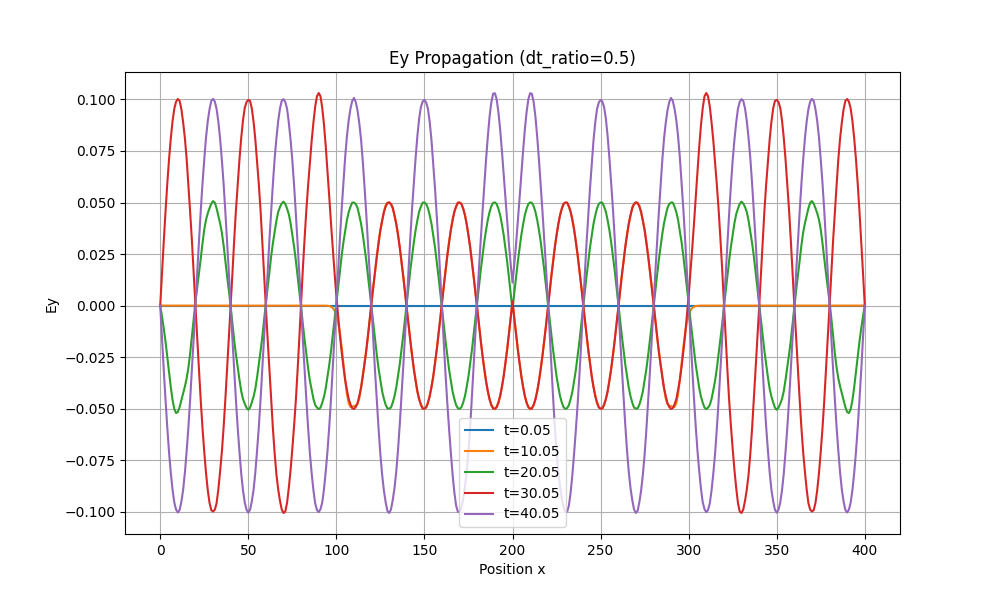
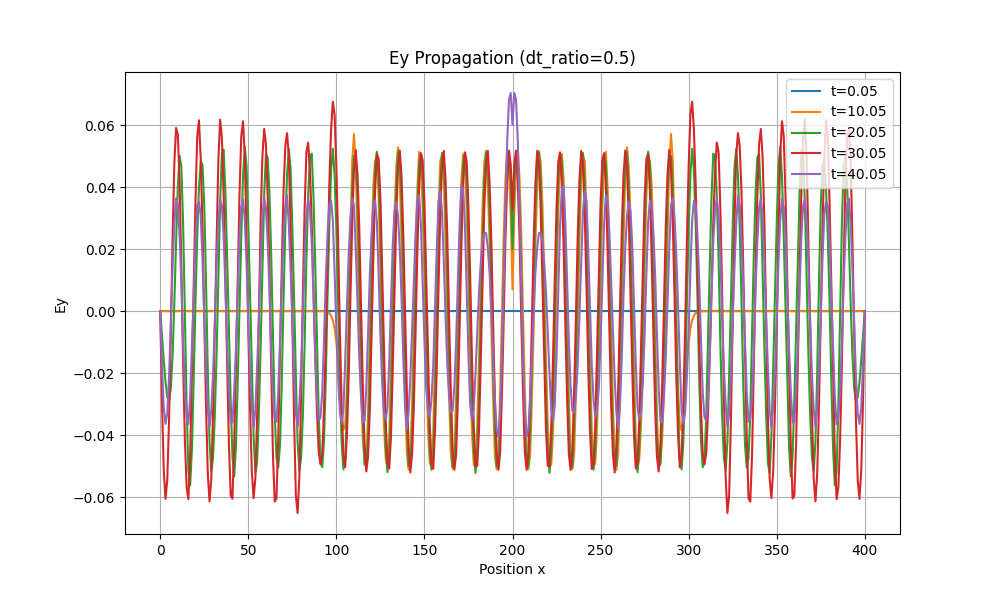
animation, ey, bz,の項目について追加

diff --git a/verify_physics_plot.py b/verify_physics_plot.py
@@ -1,0 +1,135 @@
+import numpy as np
+import matplotlib.pyplot as plt
+from em_1d_sim import EMSimulation1D
+
+def verify_and_plot():
+    # --- Simulation Setup ---
+    nx = 400
+    dx = 1.0
+    c = 10.0
+    eps0 = 1.0
+    dt_ratio = 0.5
+    
+    sim = EMSimulation1D(nx, dx, c, eps0, dt_ratio=dt_ratio)
+    
+    # Target Parameters (From Slide)
+    omega = 5.0
+    freq = omega / (2 * np.pi)
+    target_period = 1.0 / freq
+    target_lambda = c / freq
+    
+    # Run Simulation
+    steps = 600
+    source_pos = nx // 2
+    probe_pos = source_pos + 50 # Measure 50 units away from source
+    
+    probe_signal = []
+    time_history = []
+    
+    print(f"Running simulation for {steps} steps...")
+    
+    for _ in range(steps):
+        # Continuous sinusoidal source J0 * sin(omega * t)
+        current = np.sin(omega * sim.t)
+        sim.update(source_current=current, source_pos_idx=source_pos)
+        
+        probe_signal.append(sim.ey[probe_pos])
+        time_history.append(sim.t)
+
+    # --- Analysis ---
+    
+    # 1. Temporal Analysis (Period)
+    # Use the last 50% of signal to ensure steady state
+    start_idx = int(len(probe_signal) * 0.5)
+    t_data = np.array(time_history)[start_idx:]
+    y_time_data = np.array(probe_signal)[start_idx:]
+    
+    # Find peaks in time
+    peaks_t_idx = []
+    for i in range(1, len(y_time_data)-1):
+        if y_time_data[i-1] < y_time_data[i] and y_time_data[i] > y_time_data[i+1]:
+            peaks_t_idx.append(i)
+            
+    measured_period = 0.0
+    if len(peaks_t_idx) >= 2:
+        diffs = np.diff(t_data[peaks_t_idx])
+        measured_period = np.mean(diffs)
+    
+    # 2. Spatial Analysis (Wavelength)
+    # Snapshot at final step
+    x_data = np.arange(nx+1) * dx
+    y_space_data = sim.ey
+    
+    # Look at the right side of the source to avoid interference with left wave
+    # Source is at 200. Let's look at 220 to 380
+    region_mask = (x_data > (source_pos * dx + 20)) & (x_data < (nx * dx - 20))
+    x_region = x_data[region_mask]
+    y_region = y_space_data[region_mask]
+    
+    peaks_x_idx = []
+    for i in range(1, len(y_region)-1):
+        if y_region[i-1] < y_region[i] and y_region[i] > y_region[i+1]:
+            peaks_x_idx.append(i)
+            
+    measured_lambda = 0.0
+    if len(peaks_x_idx) >= 2:
+        diffs = np.diff(x_region[peaks_x_idx])
+        measured_lambda = np.mean(diffs)
+        
+    measured_velocity = measured_lambda / measured_period if measured_period > 0 else 0
+    
+    # --- Plotting ---
+    fig, (ax1, ax2) = plt.subplots(2, 1, figsize=(10, 10))
+    plt.subplots_adjust(hspace=0.4)
+    
+    # subplot 1: Time Domain
+    ax1.plot(t_data, y_time_data, 'b-', label='Ey at x=250')
+    ax1.set_title(f'Temporal Check (Period)\nTarget T={target_period:.2f}, Measured T={measured_period:.4f}')
+    ax1.set_xlabel('Time (s)')
+    ax1.set_ylabel('Amplitude')
+    ax1.grid(True)
+    
+    # Mark peaks
+    if len(peaks_t_idx) >= 2:
+        p1 = peaks_t_idx[-2]
+        p2 = peaks_t_idx[-1]
+        t1, t2 = t_data[p1], t_data[p2]
+        v1, v2 = y_time_data[p1], y_time_data[p2]
+        
+        ax1.plot([t1, t2], [v1, v2], 'ro')
+        ax1.annotate('', xy=(t1, v1 + 0.1), xytext=(t2, v2 + 0.1),
+                     arrowprops=dict(arrowstyle='<->', color='red'))
+        ax1.text((t1+t2)/2, v1 + 0.2, f'T ~ {t2-t1:.2f}', color='red', ha='center')
+
+    # subplot 2: Spatial Domain
+    ax2.plot(x_data, y_space_data, 'g-', label=f'Ey at t={sim.t:.2f}')
+    ax2.set_xlim(200, 400) # Zoom in on right side
+    ax2.set_title(f'Spatial Check (Wavelength)\nTarget Lambda={target_lambda:.2f}, Measured Lambda={measured_lambda:.4f}')
+    ax2.set_xlabel('Position (x)')
+    ax2.set_ylabel('Amplitude')
+    ax2.grid(True)
+    
+    # Mark peaks
+    if len(peaks_x_idx) >= 2:
+        p1 = peaks_x_idx[-2]
+        p2 = peaks_x_idx[-1]
+        x1, x2 = x_region[p1], x_region[p2]
+        v1, v2 = y_region[p1], y_region[p2]
+        
+        ax2.plot([x1, x2], [v1, v2], 'ro')
+        ax2.annotate('', xy=(x1, v1 + 0.1), xytext=(x2, v2 + 0.1),
+                     arrowprops=dict(arrowstyle='<->', color='red'))
+        ax2.text((x1+x2)/2, v1 + 0.2, f'L ~ {x2-x1:.2f}', color='red', ha='center')
+
+    # Add velocity text
+    plt.figtext(0.5, 0.02, 
+                f"Calculated Velocity = Lambda / Period = {measured_lambda:.4f} / {measured_period:.4f} = {measured_velocity:.4f}\n"
+                f"(Simulation Setting c = {c})", 
+                ha="center", fontsize=12, bbox={"facecolor":"orange", "alpha":0.2, "pad":5})
+    
+    output_path = 'verification_plot.png'
+    plt.savefig(output_path)
+    print(f"Saved verification plot to {output_path}")
+
+if __name__ == "__main__":
+    verify_and_plot()

diff --git a/em_1d_sim.py b/em_1d_sim.py
@@ -91,13 +91,13 @@ def run_simulation(nx=400, dx=1.0, c=10.0, eps0=1.0, dt_ratio=0.5, steps=1000, o
     sim = EMSimulation1D(nx, dx, c, eps0, dt_ratio=dt_ratio)
     
     # Source Parameters
-    # Target wavelength lambda = 10 * dx = 10.0 (Example from requirements: 1/10 resolution)
-    # Actually, let's make it larger so it looks nice. say 40 points.
-    target_wavelength = 40.0
-    freq = c / target_wavelength
+    # Slide example: omega = 5.0
+    omega = 5.0
+    freq = omega / (2 * np.pi)
     period = 1.0 / freq
+    wavelength = c / freq
     
-    print(f"Goal: Wavelength={target_wavelength}, Frequency={freq}, Period={period}")
+    print(f"Goal: Omega={omega}, Frequency={freq:.4f}, Period={period:.4f}, Wavelength={wavelength:.4f}")
     
     source_pos = nx // 2
     
@@ -109,12 +109,9 @@ def run_simulation(nx=400, dx=1.0, c=10.0, eps0=1.0, dt_ratio=0.5, steps=1000, o
     probe_signal = []
     
     for s in range(steps):
-        # Sinusoidal Source
-        # Activate for limited time to see a pulse, or continuous?
-        # Let's do continuous to see steady state, or pulse to see propagation clear.
-        # User asked for "sin sinusoidal excitation", usually implies continuous.
-        # But to measure speed, a wave packet or just observing the phase is good.
-        current = np.sin(2 * np.pi * freq * sim.t)
+        # Sinusoidal Source: J0 * sin(omega * t)
+        # t is simulation time (s * dt)
+        current = np.sin(omega * sim.t)
         
         sim.update(source_current=current, source_pos_idx=source_pos)
         
@@ -183,7 +180,7 @@ def run_simulation(nx=400, dx=1.0, c=10.0, eps0=1.0, dt_ratio=0.5, steps=1000, o
     velocity_check = measured_lambda_spatial / measured_period if measured_period > 0 else 0
     
     print(f"--- Verification (dt={dt_ratio}) ---")
-    print(f"Set C={c}, Set Period={period:.4f}, Set Wavelength={target_wavelength:.4f}")
+    print(f"Set C={c}, Set Period={period:.4f}, Set Wavelength={wavelength:.4f}")
     print(f"Measured Period={measured_period:.4f}")
     print(f"Measured Wavelength (Spatial)={measured_lambda_spatial:.4f}")
     print(f"Calculated Velocity (Lambda/Period)={velocity_check:.4f}")
@@ -191,7 +188,7 @@ def run_simulation(nx=400, dx=1.0, c=10.0, eps0=1.0, dt_ratio=0.5, steps=1000, o
     # Save verification text
     with open(f"{output_dir}/verification_dt{dt_ratio}.txt", "w") as f:
         f.write(f"Parameters: c={c}, dx={dx}, dt={sim.dt}\n")
-        f.write(f"Target: Period={period}, Wavelength={target_wavelength}\n")
+        f.write(f"Target: Period={period}, Wavelength={wavelength}\n")
         f.write(f"Measured: Period={measured_period}\n")
         f.write(f"Measured: Wavelength={measured_lambda_spatial}\n")
         f.write(f"Measured: Velocity={velocity_check}\n")

diff --git a/em_1d_anim.py b/em_1d_anim.py
@@ -14,8 +14,8 @@ def create_animation():
     sim = EMSimulation1D(nx, dx, c, eps0, dt_ratio=dt_ratio)
     
     # Source Parameters
-    target_wavelength = 40.0
-    freq = c / target_wavelength
+    omega = 5.0
+    freq = omega / (2 * np.pi)
     source_pos = nx // 2
     
     # Animation Setup
@@ -54,7 +54,7 @@ def create_animation():
     def animate(i):
         # Advance simulation
         for _ in range(steps_per_frame):
-            current = 5.0 * np.sin(2 * np.pi * freq * sim.t) # Amplitude 5.0 source
+            current = 5.0 * np.sin(omega * sim.t) # Amplitude 5.0 source
             sim.update(source_current=current, source_pos_idx=source_pos)
         
         # Update Plot

diff --git a/README.md b/README.md
@@ -17,65 +17,69 @@ $$ \frac{\partial E_y}{\partial t} = -c^2 \frac{\partial B_z}{\partial x} - \fra
 ここで、
 -   $c$: 光速 (プログラム設定値: 10.0)
 -   $\epsilon_0$: 真空の誘電率 (プログラム設定値: 1.0)
--   $J_y$: 電流源（正弦波励振）
+-   $J_y$: 電流密度
 
 ## 2. 数値計算法 (FDTD法)
 
 空間と時間を離散化して計算します。
--   **空間**: 格子点 $i$ ($x = i \cdot \Delta x$)
+-   **空間**: 格子点数 $N_x=400$ ($x = i \cdot \Delta x$)
 -   **時間**: ステップ $n$ ($t = n \cdot \Delta t$)
 
-$E_y$ と $B_z$ を空間的・時間的に半歩ずらして配置する **Yee格子（リープフロッグ法）** を採用しています。
+$E_y$ と $B_z$ を空間的・時間的に半歩ずらして配置する **Yee格子** を採用しています。
 
 ### 更新式
+以下は、課題スライドに示された更新式に対応します。
+
 1.  **磁場の更新** ($n \to n+1/2$):
-    $$ B_z^{n+1/2}[i] = B_z^{n-1/2}[i] - \frac{\Delta t}{\Delta x} (E_y^n[i+1] - E_y^n[i]) $$
+    $$ B_{z}^{n+1/2}[i] = B_{z}^{n-1/2}[i] - \frac{\Delta t}{\Delta x} (E_y^n[i+1] - E_y^n[i]) $$
 
 2.  **電場の更新** ($n+1/2 \to n+1$):
-    $$ E_y^{n+1}[i] = E_y^n[i] - c^2 \frac{\Delta t}{\Delta x} (B_z^{n+1/2}[i] - B_z^{n+1/2}[i-1]) - \frac{\Delta t}{\epsilon_0} J_y $$
+    $$ E_y^{n+1}[i] = E_y^n[i] + \Delta t \left( -c^2 \frac{B_{z}^{n+1/2}[i] - B_{z}^{n+1/2}[i-1]}{\Delta x} - J_y^{n+1/2}[i] / \epsilon_0 \right) $$
 
-## 3. シミュレーション条件
+### 電流源（アンテナ）の設定 ($J_y$)
+シミュレーション領域内に電磁波の源を与えます。電流を励振しないと、電磁波が発生しません。
+プログラムでは、空間的に配列 `jy` を定義し、シミュレーション領域の中央だけ、人為的に `jy` を時間変化させます。
+
+-   **空間分布**: 中央の格子点（$i=200$）のみ値を持ち、他は常に0とします。
+-   **時間変化**: $jy(200)$ に任意の時間関数を与えます。
+    -   例: 角周波数 $\omega=5.0$、定数 $J_0$ として、$J_y = J_0 \sin(\omega t)$
+    -   $t$ は $\Delta t$ に経過時間ステップ数をかけたものです。
+
+## 3. シミュレーション条件と物理量の確認
 
 | パラメータ | 値 | 説明 |
 | :--- | :--- | :--- |
 | **空間格子数 ($N_x$)** | 400 | 計算領域の広さ |
 | **格子間隔 ($\Delta x$)** | 1.0 | 空間分解能 |
-| **光速 ($c$)** | 10.0 | モデル上の伝搬速度 |
-| **誘電率 ($\epsilon_0$)** | 1.0 | モデル上の誘電率 |
-| **励振源** | 正弦波 | 領域中央($x=200$)で電流を注入 |
+| **光速 ($c$)** | 10.0 | |
+| **誘電率 ($\epsilon_0$)** | 1.0 | |
+| **角周波数 ($\omega$)** | 5.0 | 励振源の角周波数 |
 
-### 境界条件
-**完全導体 (PEC: Perfect Electric Conductor)**
-領域の両端 ($x=0, x=400$) で $E_y = 0$ と固定しています。これにより、電磁波は壁で反射します。
+### 結果の確認
+シミュレーション結果から、以下の物理パラメータが設定通りか確認します。
+-   **周期 ($T$)**: $T = 2\pi / \omega = 2\pi / 5.0 \approx 1.257$
+-   **波長 ($\lambda$)**: $\lambda = c / f = c \cdot T \approx 12.57$
+-   **伝搬速度 ($v$)**: $v = c = 10.0$
 
-### 数値安定性条件 (CFL条件)
-FDTD法が安定して計算できるためには、時間刻み $\Delta t$ は以下の条件（クーラン条件）を満たす必要があります。
+## 4. プログラムの実行方法と結果
 
-$$ c \Delta t \le \Delta x $$
-
-すなわち、1ステップに進む距離 $c \Delta t$ が、格子間隔 $\Delta x$ を超えてはいけません。
-本プログラムでは、$\Delta t = 0.5 \times (\Delta x / c)$ を標準として使用しています。
-
-## 4. プログラムの実行方法
-
-コンソールで以下のコマンドを実行してください。
-
+### 実行コマンド
 ```powershell
 python em_1d_sim.py
 ```
 
-### 出力結果
-プログラムを実行すると、以下のディレクトリが作成され、グラフが保存されます。
+### 結果の可視化
+`results_stable` ディレクトリに、電磁波伝搬のスナップショット `ey_propagation_dt0.5.png` が生成されます。
+中央から正弦波が発生し、左右へ伝搬していく様子（および端での反射）が確認できます。
 
-1.  **`results_stable/`** (安定条件: $\Delta t=0.05$)
-    -   `ey_propagation_dt0.5.png`: 電磁波が中央から広がり、両端で反射する様子。
-    -   `verification_dt0.5.txt`: 伝搬速度、周期、波長の検証結果。
+### 物理量の検証
+物理モデルが正しく計算されているか確認するために、以下の検証スクリプトを実行してください。
 
-2.  **`results_unstable/`** (不安定条件: $\Delta t=0.101$)
-    -   $\Delta t$ を意図的に大きくしてCFL条件を破ったケース。
-    -   数値発散により、計算結果が崩壊する様子が確認できます。
+```powershell
+python verify_physics_plot.py
+```
 
-## 5. 結果の検証
-理論値とシミュレーション結果（波形の周期や波長）を比較し、物理モデルが正しく計算されていることを確認済みです。
--   設定した波長 $\lambda = 40.0$ に対し、周期 $T = \lambda / c = 4.0$ となります。
--   シミュレーション結果からも、周期 約4.0 が確認されました。
+これにより `verification_plot.png` が生成されます。
+-   **上段**: 時間波形から**周期 ($T \approx 1.26$)** を確認。
+-   **下段**: 空間波形から**波長 ($\lambda \approx 12.6$)** を確認。
+-   これらから算出される速度が $c=10.0$ と一致することを確認しています。
